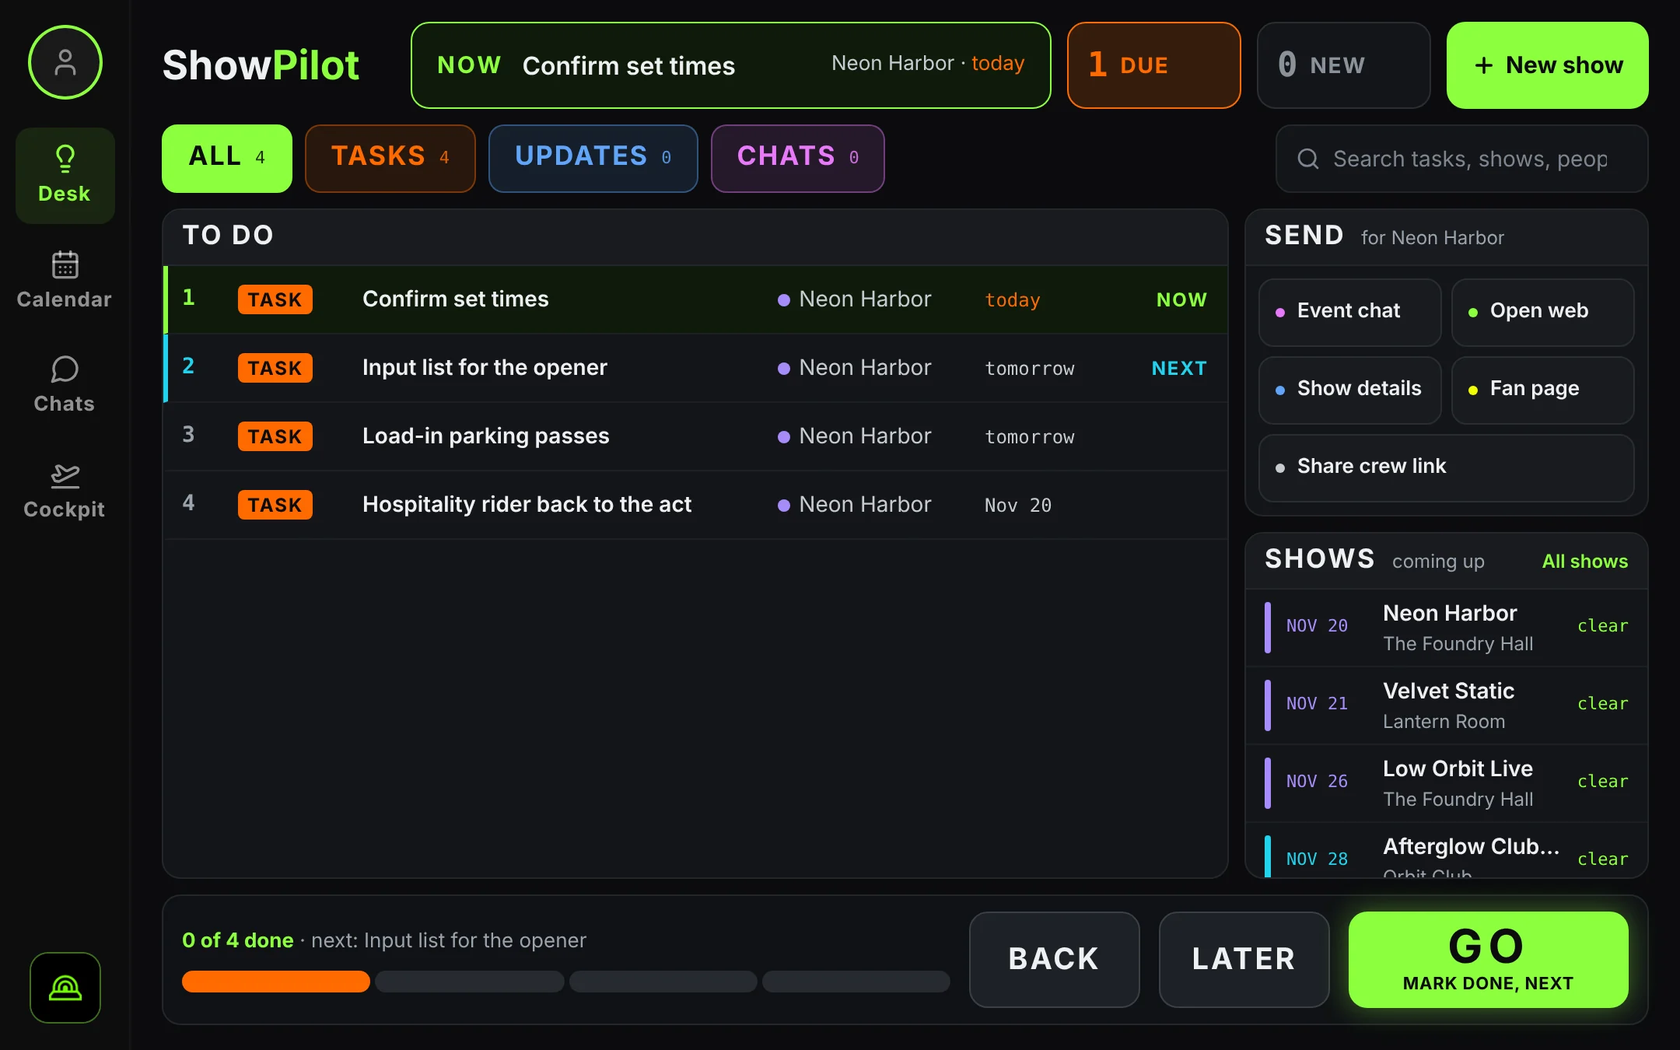
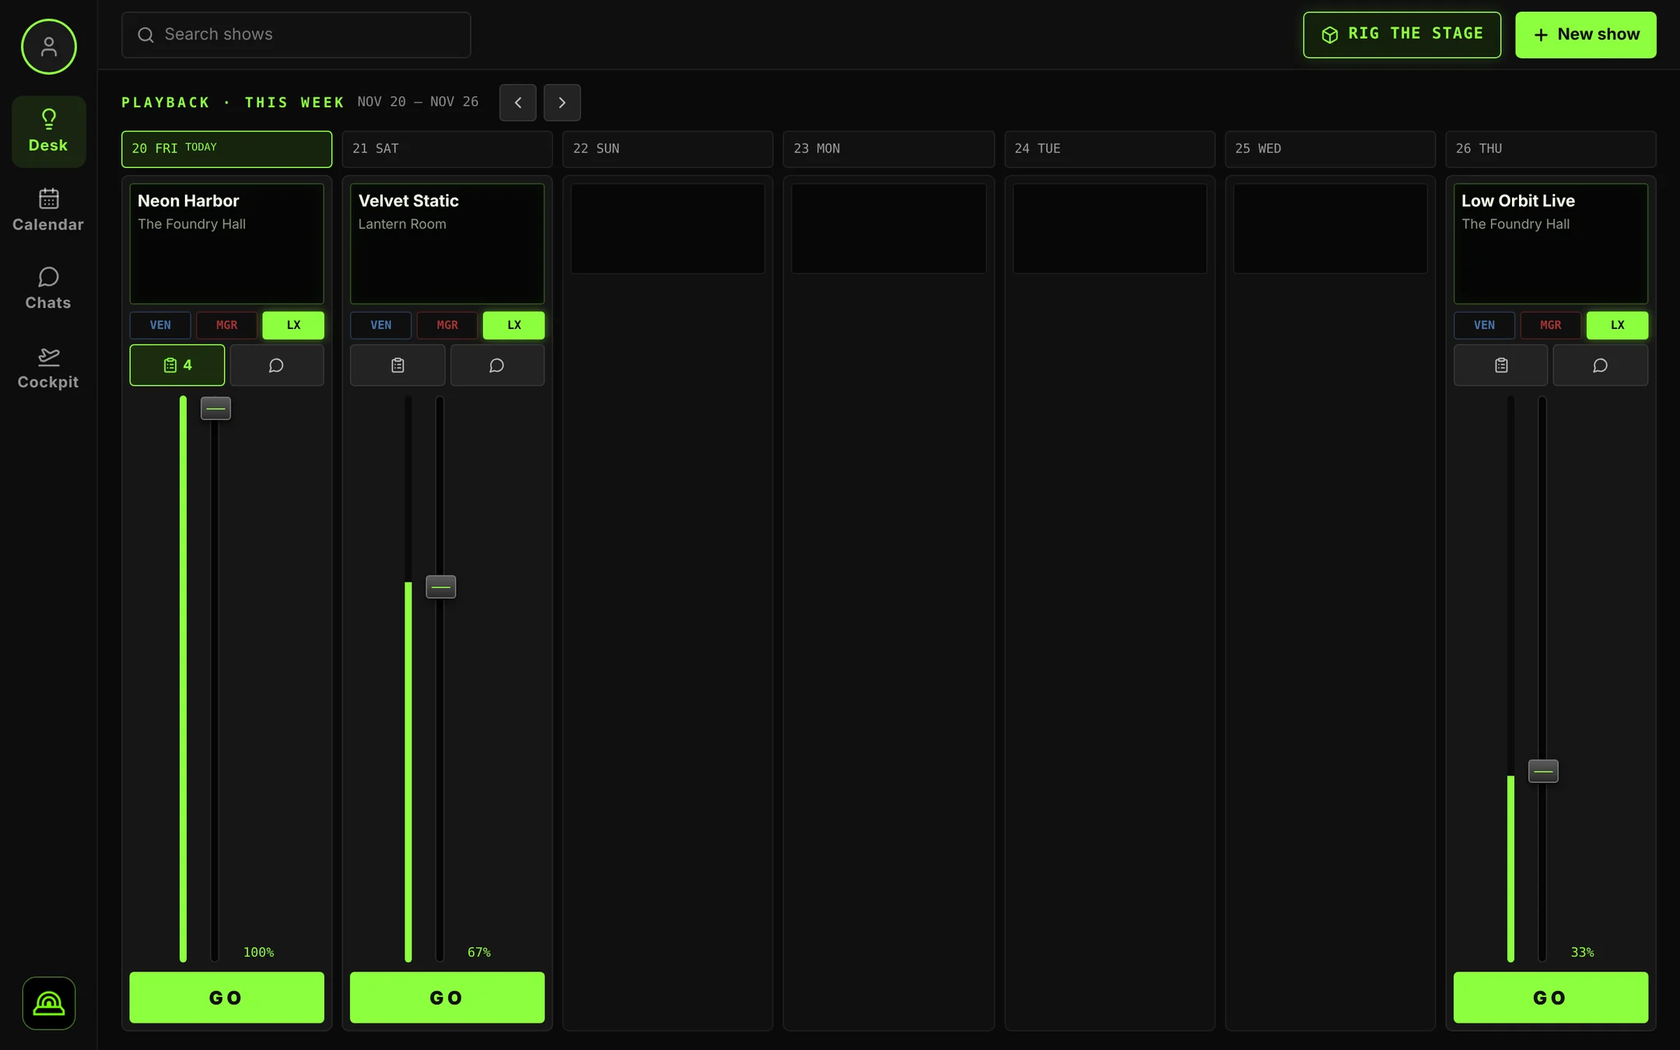
Marketing site: Audio / Lighting tour shows the lighting work as it is now: the green desk and Rig the stage in 3D (job 408)
- New slide 03 "Rig the stage in 3D": the stage pool, The Foundry Hall
  built in 3D (three trusses of lights hung with the app's own helper, an
  LED wall, a drum riser, the band), and the Chorus hit cue playing. On a
  phone: the RIG tab and the cue playing.
- Slide 02 retaken: the green lighting desk (playbacks with faders and GO),
  and the phone home with the playbacks.

Claude-Session: https://claude.ai/code/session_011F6hS4tKCc4ba8UPZXku15

diff --git a/site/index.html b/site/index.html
@@ -129,15 +129,15 @@
       <div class="tour" data-tour="tech" style="--c:#8CFF3D" hidden>
         <div class="tour-side">
           <div class="seat"><p class="seat-name">Audio / Lighting</p><p class="seat-pitch">Know what every show needs before you get there, run it from your phone, and keep a record of the work you&#x27;ve done.</p></div>
-          <div class="tour-list" role="tablist" aria-label="Audio / Lighting features"><button type="button" role="tab" class="tour-tab" id="t-tech-0" aria-controls="p-tech-0" aria-selected="true"><span class="n">01</span><span class="tt">Your shows like a console<small>Every show you work as a strip, with its tasks and status at a glance.</small></span><span class="meter"><span></span></span></button><button type="button" role="tab" class="tour-tab" id="t-tech-1" aria-controls="p-tech-1" aria-selected="false" tabindex="-1"><span class="n">02</span><span class="tt">Lighting desk and cue pads<small>Your to-do as a desk with GO, and your shows as cue pads on the phone.</small></span><span class="meter"><span></span></span></button><button type="button" role="tab" class="tour-tab" id="t-tech-2" aria-controls="p-tech-2" aria-selected="false" tabindex="-1"><span class="n">03</span><span class="tt">Send intake forms<small>Send an act one link. They fill in their act, members and inputs, and it lands on your event.</small></span><span class="meter"><span></span></span></button><button type="button" role="tab" class="tour-tab" id="t-tech-3" aria-controls="p-tech-3" aria-selected="false" tabindex="-1"><span class="n">04</span><span class="tt">The interactive stage plot<small>Each act&#x27;s stage as they built it. Open a member&#x27;s line for their inputs: Mic or DI, +48V, and IEM or monitor.</small></span><span class="meter"><span></span></span></button><button type="button" role="tab" class="tour-tab" id="t-tech-4" aria-controls="p-tech-4" aria-selected="false" tabindex="-1"><span class="n">05</span><span class="tt">Invited? Load your template<small>When you join an event, tap Load Template and your saved info fills your part.</small></span><span class="meter"><span></span></span></button><button type="button" role="tab" class="tour-tab" id="t-tech-5" aria-controls="p-tech-5" aria-selected="false" tabindex="-1"><span class="n">06</span><span class="tt">Fellow pilots&#x27; wallets<small>Save the crew you meet into wallets: by venue, tour or team.</small></span><span class="meter"><span></span></span></button><button type="button" role="tab" class="tour-tab" id="t-tech-6" aria-controls="p-tech-6" aria-selected="false" tabindex="-1"><span class="n">07</span><span class="tt">Your pilot card<small>A card with your name, role and contact that people save to their wallet.</small></span><span class="meter"><span></span></span></button><button type="button" role="tab" class="tour-tab" id="t-tech-7" aria-controls="p-tech-7" aria-selected="false" tabindex="-1"><span class="n">08</span><span class="tt">Logbook<small>Every show you&#x27;ve worked, by month, as stars you can share.</small></span><span class="meter"><span></span></span></button></div>
+          <div class="tour-list" role="tablist" aria-label="Audio / Lighting features"><button type="button" role="tab" class="tour-tab" id="t-tech-0" aria-controls="p-tech-0" aria-selected="true"><span class="n">01</span><span class="tt">Your shows like a console<small>Every show you work as a strip, with its tasks and status at a glance.</small></span><span class="meter"><span></span></span></button><button type="button" role="tab" class="tour-tab" id="t-tech-1" aria-controls="p-tech-1" aria-selected="false" tabindex="-1"><span class="n">02</span><span class="tt">Your shows as a lighting desk<small>Each show this week is a playback: who has confirmed, its tasks and chat, and a fader that fills as the show gets ready.</small></span><span class="meter"><span></span></span></button><button type="button" role="tab" class="tour-tab" id="t-tech-2" aria-controls="p-tech-2" aria-selected="false" tabindex="-1"><span class="n">03</span><span class="tt">Rig the stage in 3D<small>Build each venue&#x27;s stage once: trusses, lights, LED walls, risers and the band. Save looks as cues and play them on the stage.</small></span><span class="meter"><span></span></span></button><button type="button" role="tab" class="tour-tab" id="t-tech-3" aria-controls="p-tech-3" aria-selected="false" tabindex="-1"><span class="n">04</span><span class="tt">Send intake forms<small>Send an act one link. They fill in their act, members and inputs, and it lands on your event.</small></span><span class="meter"><span></span></span></button><button type="button" role="tab" class="tour-tab" id="t-tech-4" aria-controls="p-tech-4" aria-selected="false" tabindex="-1"><span class="n">05</span><span class="tt">The interactive stage plot<small>Each act&#x27;s stage as they built it. Open a member&#x27;s line for their inputs: Mic or DI, +48V, and IEM or monitor.</small></span><span class="meter"><span></span></span></button><button type="button" role="tab" class="tour-tab" id="t-tech-5" aria-controls="p-tech-5" aria-selected="false" tabindex="-1"><span class="n">06</span><span class="tt">Invited? Load your template<small>When you join an event, tap Load Template and your saved info fills your part.</small></span><span class="meter"><span></span></span></button><button type="button" role="tab" class="tour-tab" id="t-tech-6" aria-controls="p-tech-6" aria-selected="false" tabindex="-1"><span class="n">07</span><span class="tt">Fellow pilots&#x27; wallets<small>Save the crew you meet into wallets: by venue, tour or team.</small></span><span class="meter"><span></span></span></button><button type="button" role="tab" class="tour-tab" id="t-tech-7" aria-controls="p-tech-7" aria-selected="false" tabindex="-1"><span class="n">08</span><span class="tt">Your pilot card<small>A card with your name, role and contact that people save to their wallet.</small></span><span class="meter"><span></span></span></button><button type="button" role="tab" class="tour-tab" id="t-tech-8" aria-controls="p-tech-8" aria-selected="false" tabindex="-1"><span class="n">09</span><span class="tt">Logbook<small>Every show you&#x27;ve worked, by month, as stars you can share.</small></span><span class="meter"><span></span></span></button></div>
         </div>
         <div class="tour-stage">
-          <div class="slide" role="tabpanel" id="p-tech-0" aria-labelledby="t-tech-0"><div class="v-desk"><figure class="browser" style="--ar:1.600"><div class="browser-bar" aria-hidden="true"><i></i><i></i><i></i><span>showpilot.space</span></div><img src="/shots/console.webp" width="1600" height="1000" loading="lazy" alt="The audio console home: the coming week as channel strips, and the home screen on a phone."></figure></div><div class="v-phone"><figure class="phone"><img src="/shots/tech-home.webp" width="600" height="1298" loading="lazy" alt="Your shows like a console on a phone"></figure></div></div><div class="slide" role="tabpanel" id="p-tech-1" aria-labelledby="t-tech-1" hidden><div class="v-desk"><figure class="browser" style="--ar:1.600"><div class="browser-bar" aria-hidden="true"><i></i><i></i><i></i><span>showpilot.space</span></div><img src="/shots/lighting-desk.webp" width="1600" height="1000" loading="lazy" alt="The lighting desk with a NOW bar and GO, and cue pads on a phone."></figure></div><div class="v-phone"><figure class="phone"><img src="/shots/lighting-phone.webp" width="600" height="1298" loading="lazy" alt="Lighting desk and cue pads on a phone"></figure></div></div><div class="slide" role="tabpanel" id="p-tech-2" aria-labelledby="t-tech-2" hidden><div class="v-desk"><div class="stack" style="--ar:1.587"><figure class="browser step" style="--ar:1.600;left:0.00%;top:0.00%;width:70.42%;z-index:1"><div class="browser-bar" aria-hidden="true"><i></i><i></i><i></i><span>1 · You make the link</span></div><img src="/shots/intake-send.webp" width="1600" height="1000" loading="lazy" alt="1 · You make the link"></figure><figure class="browser step" style="--ar:1.600;left:29.58%;top:22.35%;width:70.42%;z-index:2"><div class="browser-bar" aria-hidden="true"><i></i><i></i><i></i><span>2 · The act fills it in</span></div><img src="/shots/intake-form.webp" width="1600" height="1000" loading="lazy" alt="Performer Intake: picking the event and asking for tracks, then the form the act gets from Sam Ortiz with role, artist and set, members and inputs, notes and contact."></figure></div></div><div class="v-phone two"><figure class="phone"><img src="/shots/intake-send-phone.webp" width="600" height="1298" loading="lazy" alt="Send intake forms on a phone"></figure><figure class="phone"><img src="/shots/intake-form-phone.webp" width="600" height="1298" loading="lazy" alt="Send intake forms"></figure></div></div><div class="slide" role="tabpanel" id="p-tech-3" aria-labelledby="t-tech-3" hidden><div class="v-desk"><figure class="browser" style="--ar:1.600"><div class="browser-bar" aria-hidden="true"><i></i><i></i><i></i><span>showpilot.space</span></div><img src="/shots/stage-plot-open.webp" width="1600" height="1000" loading="lazy" alt="The stage plot with Marcus Dade&#x27;s line open: vocals, guitar on a mic, acoustic on a DI with +48V, and a monitor."></figure></div><div class="v-phone"><figure class="phone"><img src="/shots/stage-plot-open-phone.webp" width="600" height="1298" loading="lazy" alt="The interactive stage plot on a phone"></figure></div></div><div class="slide" role="tabpanel" id="p-tech-4" aria-labelledby="t-tech-4" hidden><div class="v-desk"><figure class="browser" style="--ar:1.600"><div class="browser-bar" aria-hidden="true"><i></i><i></i><i></i><span>showpilot.space</span></div><img src="/shots/event-load.webp" width="1600" height="1000" loading="lazy" alt="Load Venue over an event: pick a saved venue and its details fill the event."></figure></div><div class="v-phone"><figure class="phone"><img src="/shots/load-template-phone.webp" width="600" height="1298" loading="lazy" alt="Invited? Load your template on a phone"></figure></div></div><div class="slide" role="tabpanel" id="p-tech-5" aria-labelledby="t-tech-5" hidden><div class="v-desk"><figure class="browser" style="--ar:1.600"><div class="browser-bar" aria-hidden="true"><i></i><i></i><i></i><span>showpilot.space</span></div><img src="/shots/wallets.webp" width="1600" height="1000" loading="lazy" alt="Fellow Pilots: wallets for a venue, a tour and a lighting crew, and the saved ID cards."></figure></div><div class="v-phone"><figure class="phone"><img src="/shots/wallets-phone.webp" width="600" height="1298" loading="lazy" alt="Fellow pilots&#x27; wallets on a phone"></figure></div></div><div class="slide" role="tabpanel" id="p-tech-6" aria-labelledby="t-tech-6" hidden><div class="v-desk"><figure class="browser" style="--ar:1.600"><div class="browser-bar" aria-hidden="true"><i></i><i></i><i></i><span>showpilot.space</span></div><img src="/shots/my-pilot.webp" width="1600" height="1000" loading="lazy" alt="A pilot card being set up, and the shared card on a phone."></figure></div><div class="v-phone"><figure class="phone"><img src="/shots/pilot-card.webp" width="600" height="1298" loading="lazy" alt="Your pilot card on a phone"></figure></div></div><div class="slide" role="tabpanel" id="p-tech-7" aria-labelledby="t-tech-7" hidden><div class="v-desk"><figure class="browser" style="--ar:1.600"><div class="browser-bar" aria-hidden="true"><i></i><i></i><i></i><span>showpilot.space</span></div><img src="/shots/logbook-desk.webp" width="1600" height="1000" loading="lazy" alt="The logbook as stars for the month, and a shared pilot card."></figure></div><div class="v-phone two"><figure class="phone"><img src="/shots/logbook.webp" width="600" height="1298" loading="lazy" alt="Logbook on a phone"></figure><figure class="phone"><img src="/shots/pilot-card.webp" width="600" height="1298" loading="lazy" alt="Logbook"></figure></div></div>
+          <div class="slide" role="tabpanel" id="p-tech-0" aria-labelledby="t-tech-0"><div class="v-desk"><figure class="browser" style="--ar:1.600"><div class="browser-bar" aria-hidden="true"><i></i><i></i><i></i><span>showpilot.space</span></div><img src="/shots/console.webp" width="1600" height="1000" loading="lazy" alt="The audio console home: the coming week as channel strips, and the home screen on a phone."></figure></div><div class="v-phone"><figure class="phone"><img src="/shots/tech-home.webp" width="600" height="1298" loading="lazy" alt="Your shows like a console on a phone"></figure></div></div><div class="slide" role="tabpanel" id="p-tech-1" aria-labelledby="t-tech-1" hidden><div class="v-desk"><figure class="browser" style="--ar:1.600"><div class="browser-bar" aria-hidden="true"><i></i><i></i><i></i><span>showpilot.space</span></div><img src="/shots/lighting-desk.webp" width="1600" height="1000" loading="lazy" alt="The lighting desk: this week as playbacks, each with VEN / MGR / LX, tasks, chat, a ready fader and GO; on the phone, the same playbacks under your show counts."></figure></div><div class="v-phone"><figure class="phone"><img src="/shots/lighting-phone.webp" width="600" height="1298" loading="lazy" alt="Your shows as a lighting desk on a phone"></figure></div></div><div class="slide" role="tabpanel" id="p-tech-2" aria-labelledby="t-tech-2" hidden><div class="v-desk"><div class="stack" style="--ar:1.546"><figure class="browser step" style="--ar:1.600;left:0.00%;top:0.00%;width:62.50%;z-index:1"><div class="browser-bar" aria-hidden="true"><i></i><i></i><i></i><span>1 · Your stages</span></div><img src="/shots/rig-pool.webp" width="1600" height="1000" loading="lazy" alt="1 · Your stages"></figure><figure class="browser step" style="--ar:1.600;left:18.75%;top:16.43%;width:62.50%;z-index:2"><div class="browser-bar" aria-hidden="true"><i></i><i></i><i></i><span>2 · Build the rig</span></div><img src="/shots/rig-build.webp" width="1600" height="1000" loading="lazy" alt="2 · Build the rig"></figure><figure class="browser step" style="--ar:1.600;left:37.50%;top:32.85%;width:62.50%;z-index:3"><div class="browser-bar" aria-hidden="true"><i></i><i></i><i></i><span>3 · Play your cues</span></div><img src="/shots/rig-cues.webp" width="1600" height="1000" loading="lazy" alt="Rig the stage: the stage pool, The Foundry Hall built in 3D with three trusses of lights, an LED wall, a drum riser and the band, then the Chorus hit cue playing in pink."></figure></div></div><div class="v-phone two"><figure class="phone"><img src="/shots/rig-build-phone.webp" width="600" height="1298" loading="lazy" alt="Rig the stage in 3D on a phone"></figure><figure class="phone"><img src="/shots/rig-cues-phone.webp" width="600" height="1298" loading="lazy" alt="Rig the stage in 3D"></figure></div></div><div class="slide" role="tabpanel" id="p-tech-3" aria-labelledby="t-tech-3" hidden><div class="v-desk"><div class="stack" style="--ar:1.587"><figure class="browser step" style="--ar:1.600;left:0.00%;top:0.00%;width:70.42%;z-index:1"><div class="browser-bar" aria-hidden="true"><i></i><i></i><i></i><span>1 · You make the link</span></div><img src="/shots/intake-send.webp" width="1600" height="1000" loading="lazy" alt="1 · You make the link"></figure><figure class="browser step" style="--ar:1.600;left:29.58%;top:22.35%;width:70.42%;z-index:2"><div class="browser-bar" aria-hidden="true"><i></i><i></i><i></i><span>2 · The act fills it in</span></div><img src="/shots/intake-form.webp" width="1600" height="1000" loading="lazy" alt="Performer Intake: picking the event and asking for tracks, then the form the act gets from Sam Ortiz with role, artist and set, members and inputs, notes and contact."></figure></div></div><div class="v-phone two"><figure class="phone"><img src="/shots/intake-send-phone.webp" width="600" height="1298" loading="lazy" alt="Send intake forms on a phone"></figure><figure class="phone"><img src="/shots/intake-form-phone.webp" width="600" height="1298" loading="lazy" alt="Send intake forms"></figure></div></div><div class="slide" role="tabpanel" id="p-tech-4" aria-labelledby="t-tech-4" hidden><div class="v-desk"><figure class="browser" style="--ar:1.600"><div class="browser-bar" aria-hidden="true"><i></i><i></i><i></i><span>showpilot.space</span></div><img src="/shots/stage-plot-open.webp" width="1600" height="1000" loading="lazy" alt="The stage plot with Marcus Dade&#x27;s line open: vocals, guitar on a mic, acoustic on a DI with +48V, and a monitor."></figure></div><div class="v-phone"><figure class="phone"><img src="/shots/stage-plot-open-phone.webp" width="600" height="1298" loading="lazy" alt="The interactive stage plot on a phone"></figure></div></div><div class="slide" role="tabpanel" id="p-tech-5" aria-labelledby="t-tech-5" hidden><div class="v-desk"><figure class="browser" style="--ar:1.600"><div class="browser-bar" aria-hidden="true"><i></i><i></i><i></i><span>showpilot.space</span></div><img src="/shots/event-load.webp" width="1600" height="1000" loading="lazy" alt="Load Venue over an event: pick a saved venue and its details fill the event."></figure></div><div class="v-phone"><figure class="phone"><img src="/shots/load-template-phone.webp" width="600" height="1298" loading="lazy" alt="Invited? Load your template on a phone"></figure></div></div><div class="slide" role="tabpanel" id="p-tech-6" aria-labelledby="t-tech-6" hidden><div class="v-desk"><figure class="browser" style="--ar:1.600"><div class="browser-bar" aria-hidden="true"><i></i><i></i><i></i><span>showpilot.space</span></div><img src="/shots/wallets.webp" width="1600" height="1000" loading="lazy" alt="Fellow Pilots: wallets for a venue, a tour and a lighting crew, and the saved ID cards."></figure></div><div class="v-phone"><figure class="phone"><img src="/shots/wallets-phone.webp" width="600" height="1298" loading="lazy" alt="Fellow pilots&#x27; wallets on a phone"></figure></div></div><div class="slide" role="tabpanel" id="p-tech-7" aria-labelledby="t-tech-7" hidden><div class="v-desk"><figure class="browser" style="--ar:1.600"><div class="browser-bar" aria-hidden="true"><i></i><i></i><i></i><span>showpilot.space</span></div><img src="/shots/my-pilot.webp" width="1600" height="1000" loading="lazy" alt="A pilot card being set up, and the shared card on a phone."></figure></div><div class="v-phone"><figure class="phone"><img src="/shots/pilot-card.webp" width="600" height="1298" loading="lazy" alt="Your pilot card on a phone"></figure></div></div><div class="slide" role="tabpanel" id="p-tech-8" aria-labelledby="t-tech-8" hidden><div class="v-desk"><figure class="browser" style="--ar:1.600"><div class="browser-bar" aria-hidden="true"><i></i><i></i><i></i><span>showpilot.space</span></div><img src="/shots/logbook-desk.webp" width="1600" height="1000" loading="lazy" alt="The logbook as stars for the month, and a shared pilot card."></figure></div><div class="v-phone two"><figure class="phone"><img src="/shots/logbook.webp" width="600" height="1298" loading="lazy" alt="Logbook on a phone"></figure><figure class="phone"><img src="/shots/pilot-card.webp" width="600" height="1298" loading="lazy" alt="Logbook"></figure></div></div>
           <div class="tour-nav">
             <button type="button" class="round" data-prev aria-label="Previous feature"><svg viewBox="0 0 24 24" aria-hidden="true"><path d="M15 18l-6-6 6-6"/></svg></button>
             <button type="button" class="round" data-play aria-label="Pause the slideshow"><svg class="i-pause" viewBox="0 0 24 24" aria-hidden="true"><path d="M9 6v12M15 6v12"/></svg><svg class="i-play" viewBox="0 0 24 24" aria-hidden="true"><path d="M8 5l11 7-11 7z"/></svg></button>
             <button type="button" class="round" data-next aria-label="Next feature"><svg viewBox="0 0 24 24" aria-hidden="true"><path d="M9 6l6 6-6 6"/></svg></button>
-            <span class="tour-count mono" aria-live="polite"><b data-count>01</b> / 08</span>
+            <span class="tour-count mono" aria-live="polite"><b data-count>01</b> / 09</span>
           </div>
         </div>
       </div>

diff --git a/scripts/build-site-tour.py b/scripts/build-site-tour.py
@@ -20,6 +20,8 @@ SHOT = {  # name -> (width, height)
     'mgmt-home': (1600, 1000), 'mgmt-home-phone': (600, 1298), 'acts-templates': (1600, 1000), 'acts-calendar': (1600, 1000),
     'acts-templates-phone': (600, 1298), 'acts-calendar-phone': (600, 1298), 'djmode': (1600, 1000), 'djmode-phone': (600, 1298),
     # job 375
+    # job 408
+    'rig-pool': (1600, 1000), 'rig-build': (1600, 1000), 'rig-cues': (1600, 1000), 'rig-build-phone': (600, 1298), 'rig-cues-phone': (600, 1298),
     'book-template': (1600, 1000), 'book-template-phone': (600, 1298), 'djmode-set': (1600, 1000), 'djmode-upload': (1600, 1000), 'djmode-upload-phone': (600, 1298),
 }
 
@@ -47,7 +49,8 @@ F = {
   'wallets': ("Fellow pilots' wallets", "Save the crew you meet into wallets: by venue, tour or team.", 'wallets', ['wallets-phone'], "Fellow Pilots: wallets for a venue, a tour and a lighting crew, and the saved ID cards."),
   'pilot': ('Your pilot card', 'A card with your name, role and contact that people save to their wallet.', 'my-pilot', ['pilot-card'], 'A pilot card being set up, and the shared card on a phone.'),
   'logbook': ('Logbook', "Every show you've worked, by month, as stars you can share.", 'logbook-desk', ['logbook', 'pilot-card'], 'The logbook as stars for the month, and a shared pilot card.'),
-  'lightdesk': ('Lighting desk and cue pads', 'Your to-do as a desk with GO, and your shows as cue pads on the phone.', 'lighting-desk', ['lighting-phone'], 'The lighting desk with a NOW bar and GO, and cue pads on a phone.'),
+  'lightdesk': ('Your shows as a lighting desk', 'Each show this week is a playback: who has confirmed, its tasks and chat, and a fader that fills as the show gets ready.', 'lighting-desk', ['lighting-phone'], 'The lighting desk: this week as playbacks, each with VEN / MGR / LX, tasks, chat, a ready fader and GO; on the phone, the same playbacks under your show counts.'),
+  'rig': ('Rig the stage in 3D', 'Build each venue\'s stage once: trusses, lights, LED walls, risers and the band. Save looks as cues and play them on the stage.', [('rig-pool', '1 · Your stages'), ('rig-build', '2 · Build the rig'), ('rig-cues', '3 · Play your cues')], ['rig-build-phone', 'rig-cues-phone'], 'Rig the stage: the stage pool, The Foundry Hall built in 3D with three trusses of lights, an LED wall, a drum riser and the band, then the Chorus hit cue playing in pink.'),
 }
 
 P = [
@@ -58,7 +61,7 @@ P = [
    ['home', 'acts', 'book', 'rider', 'web', 'tasks', 'djmode']),
   # Audio and lighting are one profile (job 374).
   ('tech', 'Audio / Lighting', '#8CFF3D', "Know what every show needs before you get there, run it from your phone, and keep a record of the work you've done.", '',
-   ['console', 'lightdesk', 'intake', 'stage', 'loadinvite', 'wallets', 'pilot', 'logbook']),
+   ['console', 'lightdesk', 'rig', 'intake', 'stage', 'loadinvite', 'wallets', 'pilot', 'logbook']),
 ]
 
 def img(name, alt, lazy=True):
